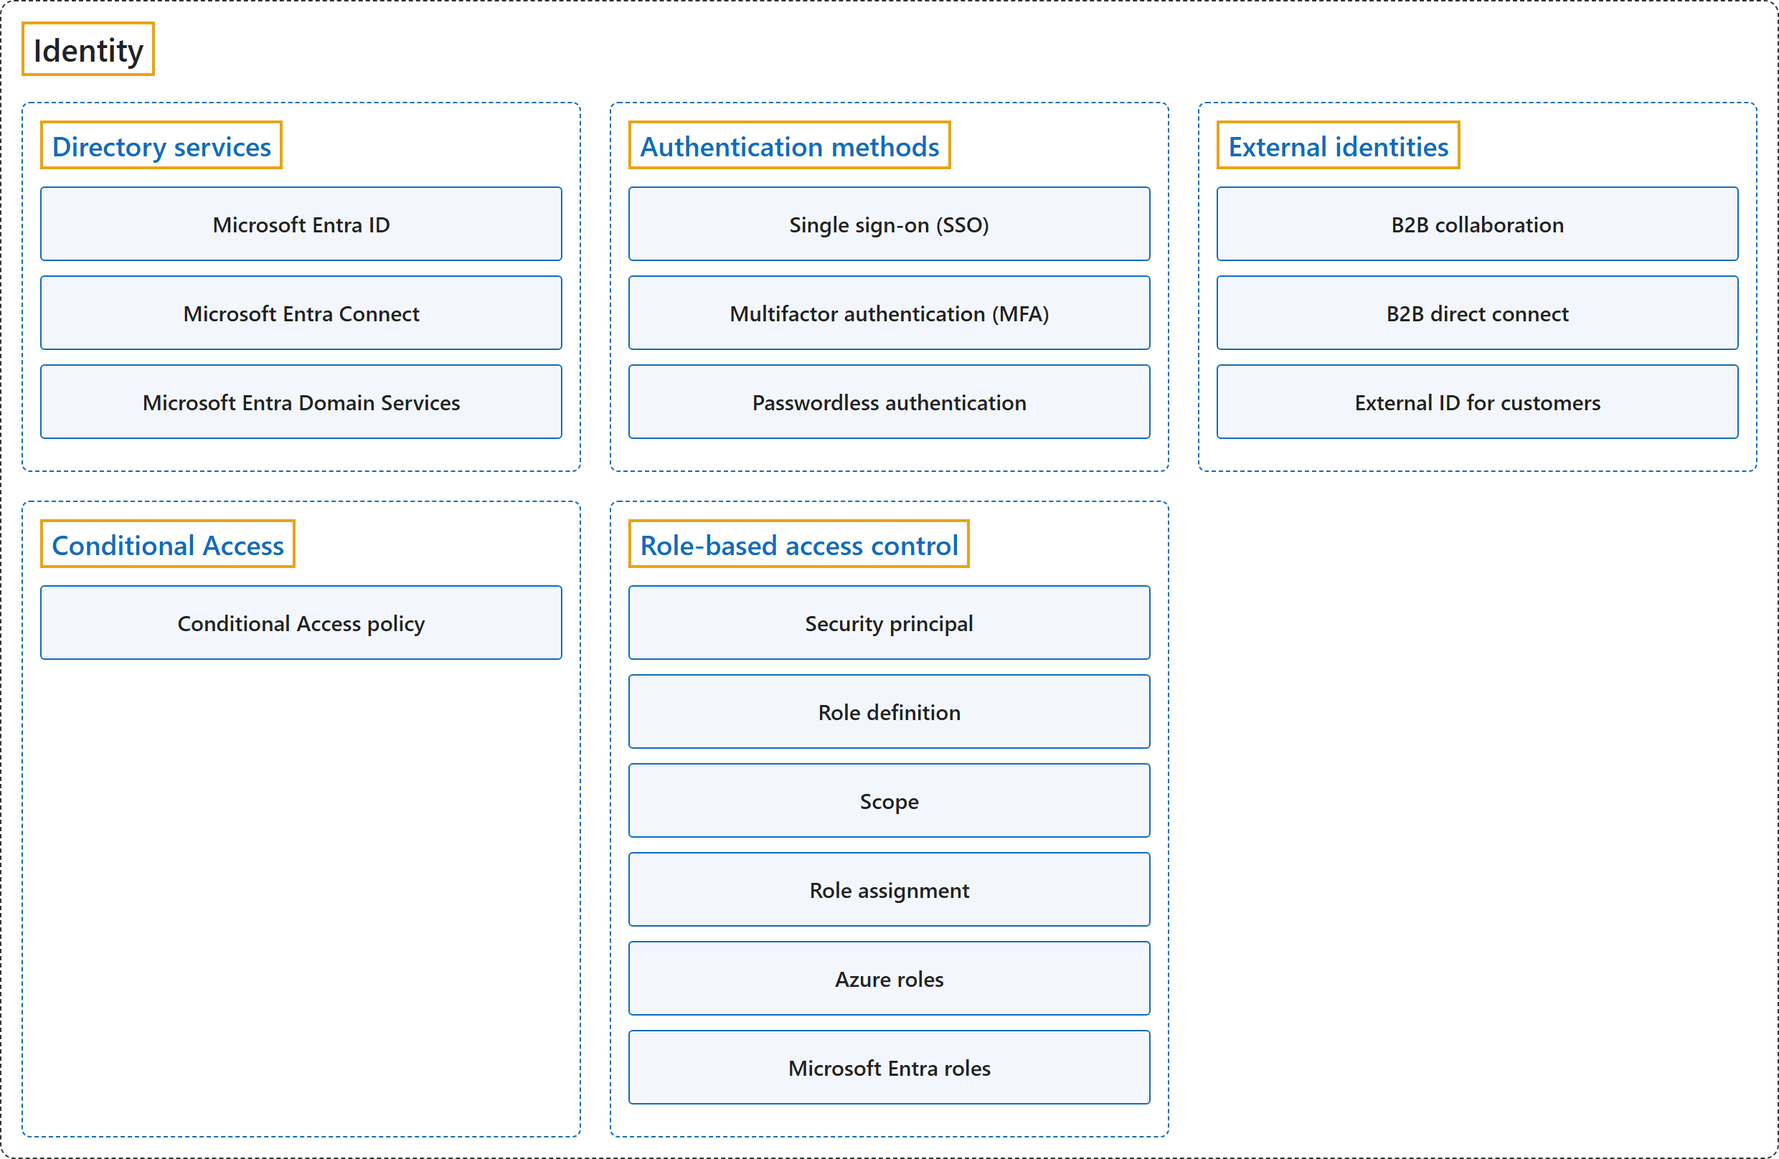
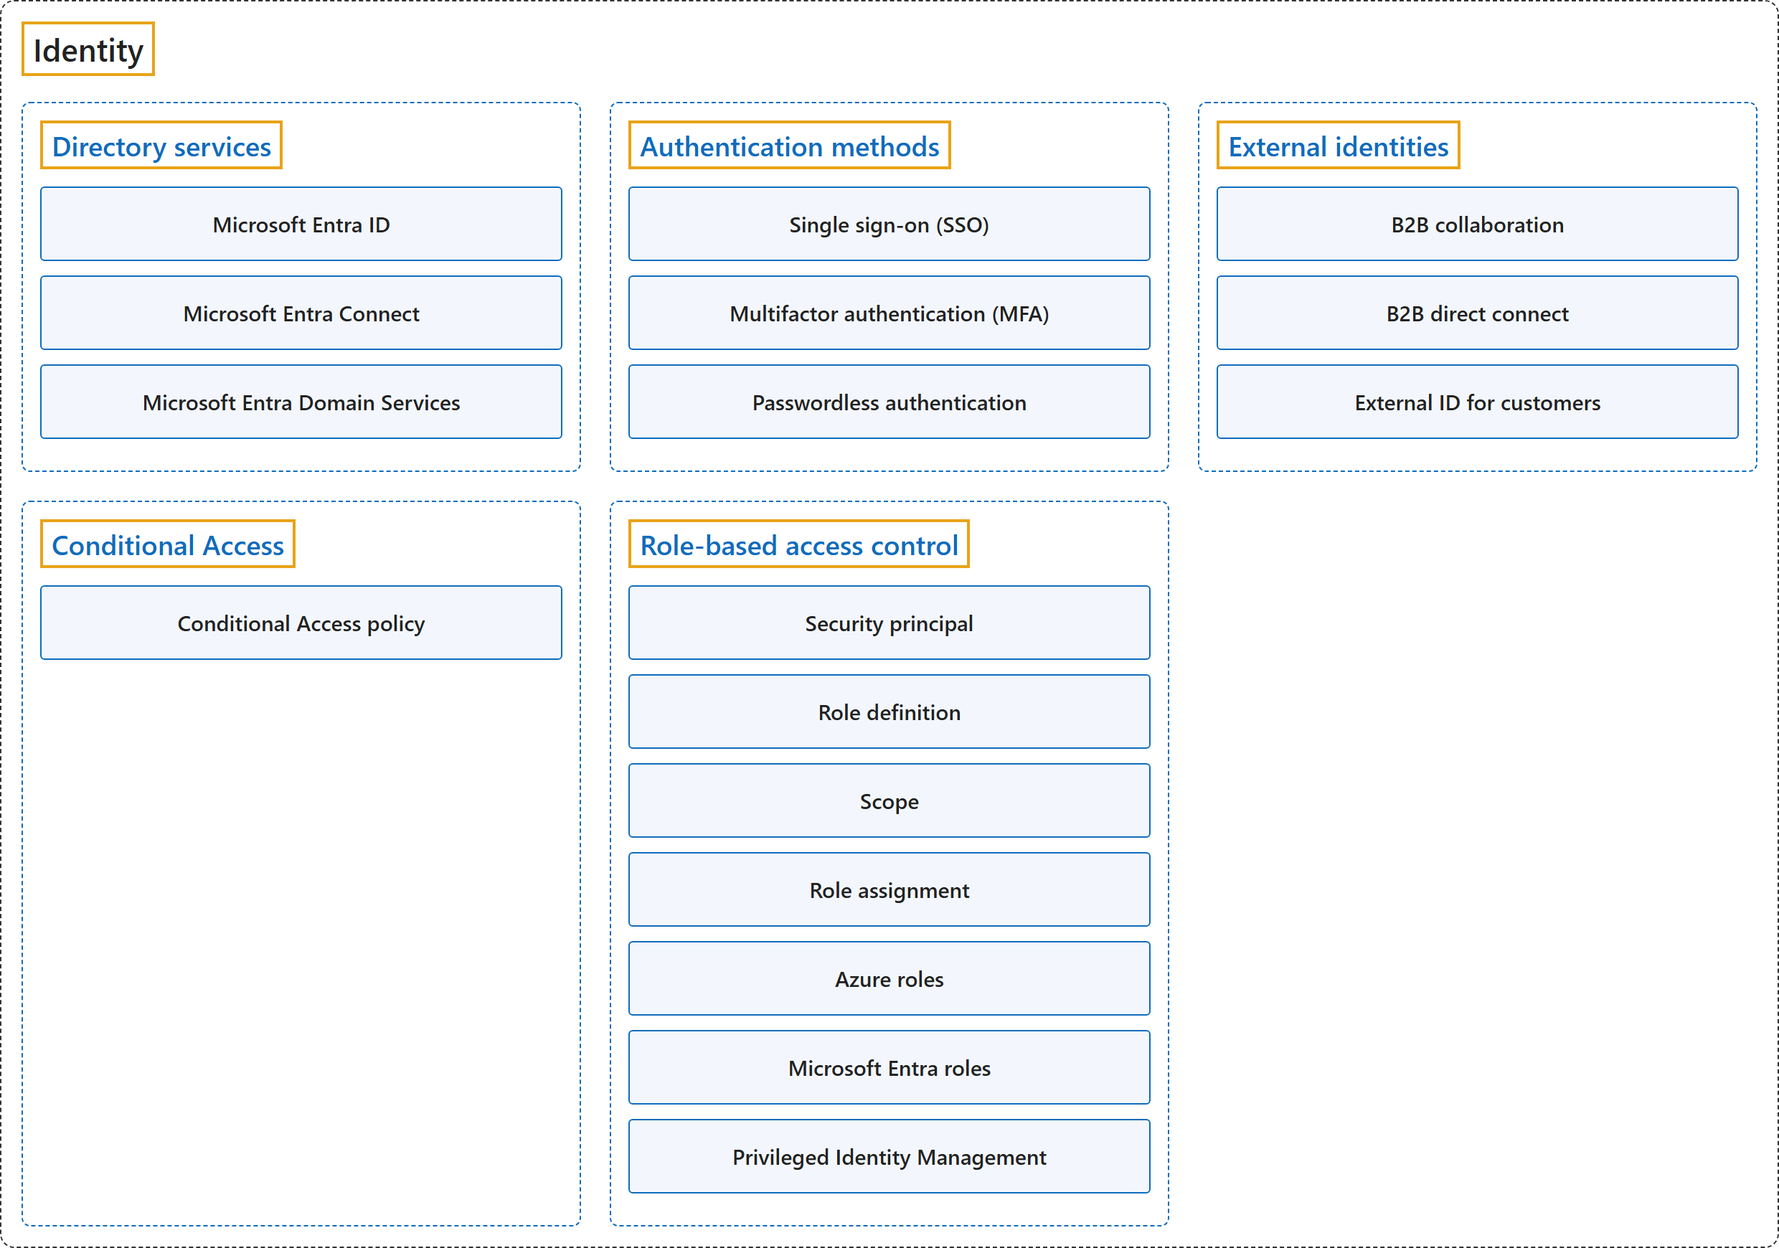
feat(cloud): 17.5.7 Privileged Identity Management on the Role-based access control page, quoted from What is Microsoft Entra Privileged Identity Management? (Overview, para. 1), a new 17.5 source; RBAC and Identity figures redrawn (CST8913 Lab 10)

diff --git a/figures/cloud/azure/identity/role-based-access-control.html b/figures/cloud/azure/identity/role-based-access-control.html
@@ -25,6 +25,7 @@
         <div class="item">Role assignment</div>
         <div class="item" id="f1">Azure roles</div>
         <div class="item" id="f2">Microsoft Entra roles</div>
+        <div class="item">Privileged Identity Management</div>
       </div>
     </div>
     <div class="col">

diff --git a/figures/cloud/azure/identity/identity.html b/figures/cloud/azure/identity/identity.html
@@ -58,6 +58,7 @@
         <div class="item">Role assignment</div>
         <div class="item">Azure roles</div>
         <div class="item">Microsoft Entra roles</div>
+        <div class="item">Privileged Identity Management</div>
       </div>
     </div>
   </div>

diff --git a/docs/cloud/azure/identity/role-based-access-control.md b/docs/cloud/azure/identity/role-based-access-control.md
@@ -1,14 +1,14 @@
 ---
 title: "17.5 Role-Based Access Control"
-description: "Microsoft Azure, 17.5 Role-based access control: Security principal, Role definition, Scope, Role assignment, Azure roles, Microsoft Entra roles."
-ms.date: 2026-11-06
+description: "Microsoft Azure, 17.5 Role-based access control: Security principal, Role definition, Scope, Role assignment, Azure roles, Microsoft Entra roles, Privileged Identity Management."
+ms.date: 2026-11-19
 ---
 
 # 17.5 Role-Based Access Control
 
 ## Classification
 
-![Role-based access control, 6 terms: Security principal, Role definition, Scope, Role assignment, Azure roles (Owner, Contributor, Reader, Role Based Access Control Administrator, User Access Administrator), Microsoft Entra roles (Global Administrator, User Administrator, Billing Administrator).](media/role-based-access-control.png)
+![Role-based access control, 7 terms: Security principal, Role definition, Scope, Role assignment, Azure roles (Owner, Contributor, Reader, Role Based Access Control Administrator, User Access Administrator), Microsoft Entra roles (Global Administrator, User Administrator, Billing Administrator), Privileged Identity Management.](media/role-based-access-control.png)
 
 ## Glossary
 
@@ -18,18 +18,20 @@ ms.date: 2026-11-06
 | **Role definition**<br>角色定义 | "A role definition is a **collection of permissions**." | 角色定义是**权限的集合**。 | [Microsoft, 2024, "Role definition" section, para. 1](https://learn.microsoft.com/en-us/azure/role-based-access-control/overview#:~:text=is%20a%20collection%20of%20permissions) |
 | **Scope**<br>作用域 | "Scope is the **set of resources** that the **access applies to**." | 作用域是**资源集合**，即**访问权限所适用的**范围。 | [Microsoft, 2024, "Scope" section, para. 1](https://learn.microsoft.com/en-us/azure/role-based-access-control/overview#:~:text=is%20the%20set%20of%20resources%20that%20the%20access%20applies%20to) |
 | **Role assignment**<br>角色分配 | "A role assignment is the process of **attaching a role definition** to a user, group, service principal, or managed identity **at a particular scope** for the purpose of **granting access**." | 角色分配是把**角色定义附加**到用户、组、服务主体或托管标识上、范围是**特定作用域**、以**授予访问权限**的过程。 | [Microsoft, 2024, "Role assignments" section, para. 1](https://learn.microsoft.com/en-us/azure/role-based-access-control/overview#:~:text=is%20the%20process%20of%20attaching%20a%20role%20definition) |
-| **Azure roles**<br>Azure 角色 | "**Azure roles control permissions** to **manage Azure resources**" | **Azure 角色控制权限**，用于**管理 Azure 资源** | [Microsoft, 2026, "Differences between Azure roles and Microsoft Entra roles" section, para. 1](https://learn.microsoft.com/en-us/azure/role-based-access-control/rbac-and-directory-admin-roles#:~:text=Azure%20roles%20control%20permissions%20to%20manage%20Azure%20resources) |
-| **Owner**<br>所有者<br>(retired August 31, 2024: Service Administrator, Co-Administrator; [Microsoft, 2026, "Classic subscription administrator roles" section, para. 1](https://learn.microsoft.com/en-us/azure/role-based-access-control/rbac-and-directory-admin-roles#:~:text=Azure%20classic%20administrator%20roles)) | "**Grants full access** to manage all resources"; "**Assign roles** in Azure RBAC" | **授予完全访问权限**，以管理所有资源；在 Azure RBAC 中**分配角色** | [Microsoft, 2026, "Azure roles" section, table, Owner row](https://learn.microsoft.com/en-us/azure/role-based-access-control/rbac-and-directory-admin-roles#:~:text=Grants%20full%20access%20to%20manage%20all%20resources) |
-| **Contributor**<br>参与者 | "**Grants full access** to manage all resources"; "**Can't assign roles** in Azure RBAC"; "Can't manage assignments in Azure Blueprints or share image galleries" | **授予完全访问权限**，以管理所有资源；在 Azure RBAC 中**不能分配角色**；不能管理 Azure Blueprints 中的分配，也不能共享映像库 | [Microsoft, 2026, "Azure roles" section, table, Contributor row](https://learn.microsoft.com/en-us/azure/role-based-access-control/rbac-and-directory-admin-roles#:~:text=Can%27t%20assign%20roles%20in%20Azure%20RBAC) |
-| **Reader**<br>读者 | "**View** Azure resources"; "Applies to **all resource types**" | **查看** Azure 资源；适用于**所有资源类型** | [Microsoft, 2026, "Azure roles" section, table, Reader row](https://learn.microsoft.com/en-us/azure/role-based-access-control/rbac-and-directory-admin-roles#:~:text=View%20Azure%20resources) |
-| **Role Based Access Control Administrator**<br>基于角色的访问控制管理员 | "**Manage user access** to Azure resources"; "Assign roles in Azure RBAC"; "Assign themselves or others the Owner role"; "**Can't manage access using other ways**, such as Azure Policy" | **管理用户访问** Azure 资源；在 Azure RBAC 中分配角色；给自己或他人分配所有者角色；**不能用其他方式管理访问**，例如 Azure Policy | [Microsoft, 2026, "Azure roles" section, table, Role Based Access Control Administrator row](https://learn.microsoft.com/en-us/azure/role-based-access-control/rbac-and-directory-admin-roles#:~:text=Can%27t%20manage%20access%20using%20other%20ways) |
-| **User Access Administrator**<br>用户访问管理员 | "The **User Access Administrator role** enables the user to **grant other users access** to Azure resources." | **用户访问管理员角色**让用户能够**授予其他用户访问** Azure 资源的权限。 | [Microsoft, 2026, "Do Azure roles and Microsoft Entra roles overlap?" subsection, para. 1](https://learn.microsoft.com/en-us/azure/role-based-access-control/rbac-and-directory-admin-roles#:~:text=The%20User%20Access%20Administrator%20role%20enables) |
-| **Microsoft Entra roles**<br>Microsoft Entra 角色 | "**Microsoft Entra roles** are used to **manage Microsoft Entra resources in a directory** such as create or edit users, assign administrative roles to others, reset user passwords, manage user licenses, and manage domains." | **Microsoft Entra 角色**用于**管理目录中的 Microsoft Entra 资源**，例如创建或编辑用户、给他人分配管理角色、重置用户密码、管理用户许可证和管理域。 | [Microsoft, 2026, "Microsoft Entra roles" section, para. 1](https://learn.microsoft.com/en-us/azure/role-based-access-control/rbac-and-directory-admin-roles#:~:text=are%20used%20to%20manage%20Microsoft%20Entra%20resources) |
-| **Global Administrator**<br>全局管理员 | "**Manage access to all administrative features** in Microsoft Entra ID, as well as services that federate to Microsoft Entra ID"; "Assign administrator roles to others"; "**Reset the password** for any user and all other administrators" | **管理所有管理功能的访问**（范围是 Microsoft Entra ID 以及与其联合的服务）；给他人分配管理员角色；**重置密码**（任何用户和所有其他管理员） | [Microsoft, 2026, "Microsoft Entra roles" section, table, Global Administrator row](https://learn.microsoft.com/en-us/azure/role-based-access-control/rbac-and-directory-admin-roles#:~:text=Manage%20access%20to%20all%20administrative%20features) |
-| **User Administrator**<br>用户管理员 | "**Create and manage all aspects of users and groups**"; "Manage support tickets"; "Monitor service health"; "**Change passwords** for users, Helpdesk administrators, and other User Administrators" | **创建和管理用户和组的各个方面**；管理支持工单；监视服务运行状况；**更改密码**（用户、支持人员管理员和其他用户管理员） | [Microsoft, 2026, "Microsoft Entra roles" section, table, User Administrator row](https://learn.microsoft.com/en-us/azure/role-based-access-control/rbac-and-directory-admin-roles#:~:text=Create%20and%20manage%20all%20aspects%20of%20users%20and%20groups) |
-| **Billing Administrator**<br>计费管理员 | "**Make purchases**"; "**Manage subscriptions**"; "Manage support tickets"; "Monitors service health" | **进行购买**；**管理订阅**；管理支持工单；监视服务运行状况 | [Microsoft, 2026, "Microsoft Entra roles" section, table, Billing Administrator row](https://learn.microsoft.com/en-us/azure/role-based-access-control/rbac-and-directory-admin-roles#:~:text=Make%20purchases) |
+| **Azure roles**<br>Azure 角色 | "**Azure roles control permissions** to **manage Azure resources**" | **Azure 角色控制权限**，用于**管理 Azure 资源** | [Microsoft, 2026a, "Differences between Azure roles and Microsoft Entra roles" section, para. 1](https://learn.microsoft.com/en-us/azure/role-based-access-control/rbac-and-directory-admin-roles#:~:text=Azure%20roles%20control%20permissions%20to%20manage%20Azure%20resources) |
+| **Owner**<br>所有者<br>(retired August 31, 2024: Service Administrator, Co-Administrator; [Microsoft, 2026a, "Classic subscription administrator roles" section, para. 1](https://learn.microsoft.com/en-us/azure/role-based-access-control/rbac-and-directory-admin-roles#:~:text=Azure%20classic%20administrator%20roles)) | "**Grants full access** to manage all resources"; "**Assign roles** in Azure RBAC" | **授予完全访问权限**，以管理所有资源；在 Azure RBAC 中**分配角色** | [Microsoft, 2026a, "Azure roles" section, table, Owner row](https://learn.microsoft.com/en-us/azure/role-based-access-control/rbac-and-directory-admin-roles#:~:text=Grants%20full%20access%20to%20manage%20all%20resources) |
+| **Contributor**<br>参与者 | "**Grants full access** to manage all resources"; "**Can't assign roles** in Azure RBAC"; "Can't manage assignments in Azure Blueprints or share image galleries" | **授予完全访问权限**，以管理所有资源；在 Azure RBAC 中**不能分配角色**；不能管理 Azure Blueprints 中的分配，也不能共享映像库 | [Microsoft, 2026a, "Azure roles" section, table, Contributor row](https://learn.microsoft.com/en-us/azure/role-based-access-control/rbac-and-directory-admin-roles#:~:text=Can%27t%20assign%20roles%20in%20Azure%20RBAC) |
+| **Reader**<br>读者 | "**View** Azure resources"; "Applies to **all resource types**" | **查看** Azure 资源；适用于**所有资源类型** | [Microsoft, 2026a, "Azure roles" section, table, Reader row](https://learn.microsoft.com/en-us/azure/role-based-access-control/rbac-and-directory-admin-roles#:~:text=View%20Azure%20resources) |
+| **Role Based Access Control Administrator**<br>基于角色的访问控制管理员 | "**Manage user access** to Azure resources"; "Assign roles in Azure RBAC"; "Assign themselves or others the Owner role"; "**Can't manage access using other ways**, such as Azure Policy" | **管理用户访问** Azure 资源；在 Azure RBAC 中分配角色；给自己或他人分配所有者角色；**不能用其他方式管理访问**，例如 Azure Policy | [Microsoft, 2026a, "Azure roles" section, table, Role Based Access Control Administrator row](https://learn.microsoft.com/en-us/azure/role-based-access-control/rbac-and-directory-admin-roles#:~:text=Can%27t%20manage%20access%20using%20other%20ways) |
+| **User Access Administrator**<br>用户访问管理员 | "The **User Access Administrator role** enables the user to **grant other users access** to Azure resources." | **用户访问管理员角色**让用户能够**授予其他用户访问** Azure 资源的权限。 | [Microsoft, 2026a, "Do Azure roles and Microsoft Entra roles overlap?" subsection, para. 1](https://learn.microsoft.com/en-us/azure/role-based-access-control/rbac-and-directory-admin-roles#:~:text=The%20User%20Access%20Administrator%20role%20enables) |
+| **Microsoft Entra roles**<br>Microsoft Entra 角色 | "**Microsoft Entra roles** are used to **manage Microsoft Entra resources in a directory** such as create or edit users, assign administrative roles to others, reset user passwords, manage user licenses, and manage domains." | **Microsoft Entra 角色**用于**管理目录中的 Microsoft Entra 资源**，例如创建或编辑用户、给他人分配管理角色、重置用户密码、管理用户许可证和管理域。 | [Microsoft, 2026a, "Microsoft Entra roles" section, para. 1](https://learn.microsoft.com/en-us/azure/role-based-access-control/rbac-and-directory-admin-roles#:~:text=are%20used%20to%20manage%20Microsoft%20Entra%20resources) |
+| **Global Administrator**<br>全局管理员 | "**Manage access to all administrative features** in Microsoft Entra ID, as well as services that federate to Microsoft Entra ID"; "Assign administrator roles to others"; "**Reset the password** for any user and all other administrators" | **管理所有管理功能的访问**（范围是 Microsoft Entra ID 以及与其联合的服务）；给他人分配管理员角色；**重置密码**（任何用户和所有其他管理员） | [Microsoft, 2026a, "Microsoft Entra roles" section, table, Global Administrator row](https://learn.microsoft.com/en-us/azure/role-based-access-control/rbac-and-directory-admin-roles#:~:text=Manage%20access%20to%20all%20administrative%20features) |
+| **User Administrator**<br>用户管理员 | "**Create and manage all aspects of users and groups**"; "Manage support tickets"; "Monitor service health"; "**Change passwords** for users, Helpdesk administrators, and other User Administrators" | **创建和管理用户和组的各个方面**；管理支持工单；监视服务运行状况；**更改密码**（用户、支持人员管理员和其他用户管理员） | [Microsoft, 2026a, "Microsoft Entra roles" section, table, User Administrator row](https://learn.microsoft.com/en-us/azure/role-based-access-control/rbac-and-directory-admin-roles#:~:text=Create%20and%20manage%20all%20aspects%20of%20users%20and%20groups) |
+| **Billing Administrator**<br>计费管理员 | "**Make purchases**"; "**Manage subscriptions**"; "Manage support tickets"; "Monitors service health" | **进行购买**；**管理订阅**；管理支持工单；监视服务运行状况 | [Microsoft, 2026a, "Microsoft Entra roles" section, table, Billing Administrator row](https://learn.microsoft.com/en-us/azure/role-based-access-control/rbac-and-directory-admin-roles#:~:text=Make%20purchases) |
+| **Privileged Identity Management**<br>特权身份管理 | "Privileged Identity Management (PIM) is **a service in Microsoft Entra ID** that enables you to **manage, control, and monitor access to important resources** in your organization." | Privileged Identity Management（PIM）是 **Microsoft Entra ID 中的一项服务**，让你能够**管理、控制和监视对组织中重要资源的访问**。 | [Microsoft, 2026b, "Overview" section, para. 1](https://learn.microsoft.com/en-us/entra/id-governance/privileged-identity-management/pim-configure#:~:text=is%20a%20service%20in%20Microsoft%20Entra%20ID%20that%20enables) |
 
 ## References
 
 - Microsoft. (2024, March 12). *What is Azure role-based access control (Azure RBAC)?* Microsoft Learn. https://learn.microsoft.com/en-us/azure/role-based-access-control/overview
-- Microsoft. (2026, May 6). *Azure roles, Microsoft Entra roles, and classic subscription administrator roles*. Microsoft Learn. https://learn.microsoft.com/en-us/azure/role-based-access-control/rbac-and-directory-admin-roles
+- Microsoft. (2026a, May 6). *Azure roles, Microsoft Entra roles, and classic subscription administrator roles*. Microsoft Learn. https://learn.microsoft.com/en-us/azure/role-based-access-control/rbac-and-directory-admin-roles
+- Microsoft. (2026b, November 17). *What is Microsoft Entra Privileged Identity Management?* Microsoft Entra ID Governance. Microsoft Learn. https://learn.microsoft.com/en-us/entra/id-governance/privileged-identity-management/pim-configure

diff --git a/docs/cloud/azure/identity/README.md b/docs/cloud/azure/identity/README.md
@@ -10,10 +10,12 @@ Follows `../README.md`. Figure on `index.md`: classification (see `../README.md`
 | 17.2 | `authentication-methods.md` | Authentication methods | [What is single sign-on in Microsoft Entra ID?](https://learn.microsoft.com/en-us/entra/identity/enterprise-apps/what-is-single-sign-on); [How it works: Microsoft Entra multifactor authentication](https://learn.microsoft.com/en-us/entra/identity/authentication/concept-mfa-howitworks); [Passkeys (FIDO2)](https://learn.microsoft.com/en-us/entra/identity/authentication/concept-authentication-passwordless) | 17.2.1 Single sign-on (SSO), 17.2.2 Multifactor authentication (MFA), 17.2.3 Passwordless authentication |
 | 17.3 | `external-identities.md` | External identities | [What is Microsoft Entra B2B collaboration?](https://learn.microsoft.com/en-us/entra/external-id/what-is-b2b); [B2B direct connect overview](https://learn.microsoft.com/en-us/entra/external-id/b2b-direct-connect-overview); [External ID in an external tenant](https://learn.microsoft.com/en-us/entra/external-id/customers/overview-customers-ciam) | 17.3.1 B2B collaboration, 17.3.2 B2B direct connect, 17.3.3 External ID for customers |
 | 17.4 | `conditional-access.md` | Conditional Access | [What is Conditional Access?](https://learn.microsoft.com/en-us/entra/identity/conditional-access/overview) | 17.4.1 Conditional Access policy |
-| 17.5 | `role-based-access-control.md` | Role-based access control | [What is Azure RBAC?](https://learn.microsoft.com/en-us/azure/role-based-access-control/overview); [Azure roles, Microsoft Entra roles, and classic subscription administrator roles](https://learn.microsoft.com/en-us/azure/role-based-access-control/rbac-and-directory-admin-roles) | 17.5.1 Security principal, 17.5.2 Role definition, 17.5.3 Scope, 17.5.4 Role assignment, 17.5.5 Azure roles, 17.5.6 Microsoft Entra roles |
+| 17.5 | `role-based-access-control.md` | Role-based access control | [What is Azure RBAC?](https://learn.microsoft.com/en-us/azure/role-based-access-control/overview); [Azure roles, Microsoft Entra roles, and classic subscription administrator roles](https://learn.microsoft.com/en-us/azure/role-based-access-control/rbac-and-directory-admin-roles); [What is Privileged Identity Management?](https://learn.microsoft.com/en-us/entra/id-governance/privileged-identity-management/pim-configure) | 17.5.1 Security principal, 17.5.2 Role definition, 17.5.3 Scope, 17.5.4 Role assignment, 17.5.5 Azure roles, 17.5.6 Microsoft Entra roles, 17.5.7 Privileged Identity Management |
 
 The kinds of security principal taught in CST8912 (user, group, service principal, managed identity: system-assigned and user-assigned) are H3 inside 17.5.1 Security principal. The module's other units (Zero Trust, defense in depth, encryption and key management, Microsoft Defender for Cloud) belong to 13. Security.
 
 Definitions come from the Microsoft Entra and Azure RBAC product documentation; the AZ-900 units only shaped the five groups (2026-10-27). The passwordless page now redirects to passkeys (FIDO2), so 17.2.3 quotes it as context.
+
+17.5.7 Privileged Identity Management was added on 2026-11-19 for CST8913 Lab 10 (just-in-time admin access), with its own page as a new source, since none of the listed sources names it; it controls when Azure and Microsoft Entra role assignments are active. The page's terminology table (eligible, active, activate, just-in-time access and others) is not placed yet.
 
 17.5.5 Azure roles and 17.5.6 Microsoft Entra roles were added on 2026-11-06 for CST8911 Lecture 7 (slide 7 shows the diagram of the roles page). Their kinds are the rows of the page's two role tables, in table order. The classic subscription administrator roles are retired (August 31, 2024), so Service Administrator and Co-Administrator sit in the Owner Term cell, which replaced them; Account Administrator was not replaced by an Azure role and is not placed. Application Administrator and Application Developer appear only in the page's diagram, not in its tables, and elevated access is a switch, not a role; none of them is placed.
